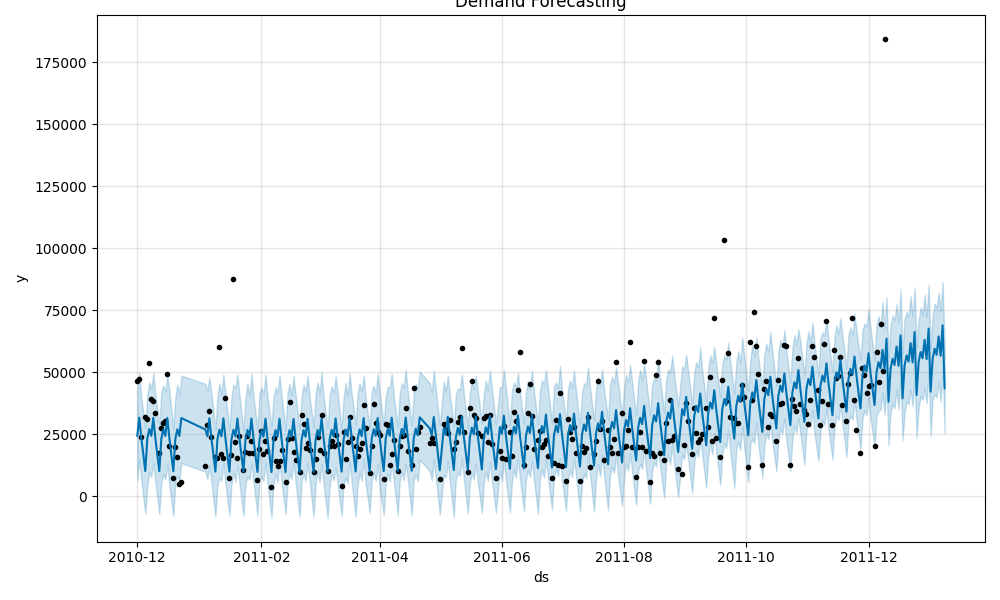
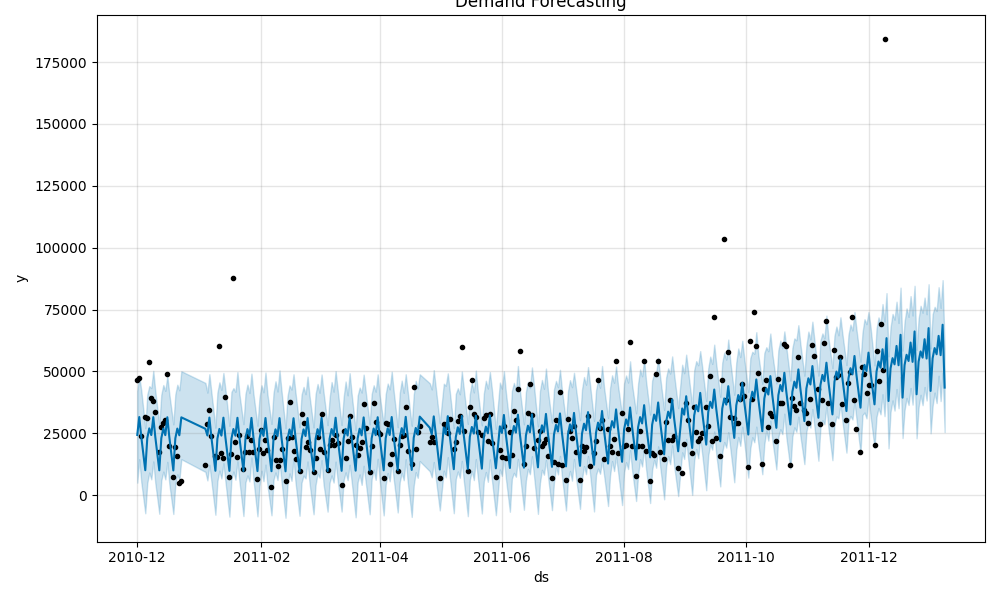
updates

diff --git a/deep_learning.py b/deep_learning.py
@@ -1,0 +1,72 @@
+import pandas as pd
+import numpy as np
+from scipy.sparse import csr_matrix
+from sklearn.decomposition import TruncatedSVD
+from sklearn.metrics.pairwise import cosine_similarity
+import matplotlib.pyplot as plt
+
+def deep_learning_analysis(df):
+    """
+    Build Customer-Product matrix, apply SVD for collaborative filtering,
+    identify co-bought products and personalized recommendations.
+    """
+    # Create customer-product matrix (pivot on Quantity)
+    customer_product = df.pivot_table(
+        index='CustomerID', 
+        columns='StockCode', 
+        values='Quantity', 
+        fill_value=0
+    )
+
+    # Sparse matrix for efficiency
+    customer_product_sparse = csr_matrix(customer_product.values)
+
+    # SVD for dimensionality reduction
+    svd = TruncatedSVD(n_components=50, random_state=42)
+    matrix_reduced = svd.fit_transform(customer_product_sparse)
+
+    # Reconstruct for recommendations
+    matrix_reconstructed = svd.inverse_transform(matrix_reduced)
+
+    # Personalized recommendations: for a sample customer (first one)
+    sample_customer = 0
+    customer_reconstructed = matrix_reconstructed[sample_customer]
+    recommendations = np.argsort(customer_reconstructed)[-10:]  # Top 10 recommended products
+    recommended_products = customer_product.columns[recommendations]
+
+    # Product bundles: frequently bought together
+    # Group by InvoiceNo to find items in same basket
+    basket = (df[df['Quantity'] > 0]
+              .groupby(['InvoiceNo', 'StockCode'])['Quantity']
+              .sum()
+              .unstack()
+              .fillna(0)
+              .astype(bool)
+              .stack()
+              .reset_index()
+              .rename(columns={'level_1': 'StockCode_1', 0: 'InBasket'}))
+
+    # Pairwise co-occurrences
+    pairs = df.groupby(['InvoiceNo', 'StockCode']).size().reset_index(name='Count')
+    co_bought = pd.merge(pairs, pairs, on='InvoiceNo', suffixes=('_x', '_y'))
+    co_bought = co_bought[co_bought['StockCode_x'] < co_bought['StockCode_y']]
+    co_bought_summary = co_bought.groupby(['StockCode_x', 'StockCode_y'])['InvoiceNo'].nunique().sort_values(ascending=False).head(10)
+
+    # Plot customer-product matrix heatmap (sample)
+    plt.figure(figsize=(10, 6))
+    sample_matrix = customer_product.iloc[:10, :10]  # Small sample for plot
+    plt.imshow(sample_matrix, cmap='Blues', aspect='auto')
+    plt.colorbar()
+    plt.title('Sample Customer-Product Matrix')
+    plt.xlabel('Products')
+    plt.ylabel('Customers')
+    plt.savefig('images/customer_product_matrix.png')
+    plt.close()
+
+    # Plot top co-bought pairs
+    co_bought_summary.plot(kind='bar')
+    plt.title('Top Co-bought Product Pairs')
+    plt.savefig('images/co_bought_pairs.png')
+    plt.close()
+
+    return customer_product, matrix_reduced, recommended_products, co_bought_summary

diff --git a/chatbot.py b/chatbot.py
@@ -1,0 +1,50 @@
+import random
+
+class SimpleChatbot:
+    def __init__(self):
+        self.responses = {
+            "hello": ["Hi there!", "Hello!", "Greetings!"],
+            "product": ["We have many products. What are you looking for?", "Tell me about a product."],
+            "recommend": ["Based on your history, I recommend...", "Popular items include..."],
+            "bye": ["Goodbye!", "See you later!"],
+            "default": ["I'm sorry, I didn't understand.", "Can you rephrase?"]
+        }
+
+    def get_response(self, user_input):
+        user_input = user_input.lower()
+        if "hello" in user_input or "hi" in user_input:
+            return random.choice(self.responses["hello"])
+        elif "product" in user_input:
+            return random.choice(self.responses["product"])
+        elif "recommend" in user_input:
+            return random.choice(self.responses["recommend"])
+        elif "bye" in user_input:
+            return random.choice(self.responses["bye"])
+        else:
+            return random.choice(self.responses["default"])
+
+def run_chatbot():
+    """
+    Run a simple text-based chatbot.
+    Note: Speech recognition not implemented, as it requires external tools.
+    """
+    bot = SimpleChatbot()
+    print("Chatbot: Hello! Ask me about products or recommendations. Type 'quit' to exit.")
+    while True:
+        user_input = input("You: ")
+        if user_input.lower() == 'quit':
+            print("Chatbot: Goodbye!")
+            break
+        response = bot.get_response(user_input)
+        print(f"Chatbot: {response}")
+
+# For non-interactive, just print a demo
+def chatbot_demo():
+    bot = SimpleChatbot()
+    demo_inputs = ["hello", "what products do you have?", "recommend something", "bye"]
+    for inp in demo_inputs:
+        resp = bot.get_response(inp)
+        print(f"Input: {inp} -> Response: {resp}")
+
+if __name__ == "__main__":
+    chatbot_demo()

diff --git a/nlp.py b/nlp.py
@@ -1,0 +1,53 @@
+import pandas as pd
+from sklearn.feature_extraction.text import CountVectorizer
+from sklearn.model_selection import train_test_split
+from sklearn.linear_model import LogisticRegression
+from sklearn.metrics import accuracy_score
+import matplotlib.pyplot as plt
+
+def nlp_analysis():
+    """
+    Simulate NLP: create dummy reviews, preprocess, train sentiment model.
+    """
+    # Dummy data since no reviews in dataset
+    reviews = [
+        "Great product, love it!",
+        "Bad quality, disappointed.",
+        "Excellent value for money.",
+        "Terrible, do not buy.",
+        "Amazing, highly recommend.",
+        "Poor service, awful.",
+        "Fantastic item.",
+        "Worst purchase ever.",
+        "Good, but could be better.",
+        "Neutral, nothing special."
+    ] * 100  # Multiply for more data
+
+    reviews = [r.lower() for r in reviews]  # Make lowercase for matching
+    sentiments = [1 if 'great' in r or 'excellent' in r or 'amazing' in r or 'fantastic' in r or 'good' in r else 0 for r in reviews]
+
+    # Preprocess: tokenize, clean (simple)
+    vectorizer = CountVectorizer(stop_words='english')
+    X = vectorizer.fit_transform(reviews)
+    y = sentiments
+
+    # Train/test
+    X_train, X_test, y_train, y_test = train_test_split(X, y, test_size=0.2, random_state=42)
+
+    # Model
+    model = LogisticRegression()
+    model.fit(X_train, y_train)
+
+    # Predict
+    y_pred = model.predict(X_test)
+    acc = accuracy_score(y_test, y_pred)
+
+    # Plot sentiment distribution
+    sentiment_counts = pd.Series(sentiments).value_counts()
+    sentiment_counts.plot(kind='bar')
+    plt.title('Sentiment Distribution (Dummy)')
+    plt.xticks([0,1], ['Negative', 'Positive'])
+    plt.savefig('images/sentiment_distribution.png')
+    plt.close()
+
+    return acc

diff --git a/main.py b/main.py
@@ -1,0 +1,54 @@
+from load_data import load_data
+from clean_data import clean_data
+from time_series import time_series_analysis
+from classification import customer_segmentation
+from deep_learning import deep_learning_analysis
+from nlp import nlp_analysis
+from chatbot import chatbot_demo
+from dashboard import create_dashboard
+
+def main():
+    """
+    Run all steps of the analysis.
+    """
+    print("Starting data loading...")
+    df = load_data()
+    print("Data loaded.")
+
+    print("Cleaning data...")
+    df = clean_data(df)
+    print("Data cleaned.")
+
+    print("Performing time series analysis...")
+    forecast = time_series_analysis(df)
+    print("Time series analysis completed.")
+    print("Forecast (next 5 days):", forecast[['ds', 'yhat']].tail(5).to_dict('records'))
+
+    print("Performing customer segmentation...")
+    rfm = customer_segmentation(df)
+    print("Customer segmentation completed.")
+    print("Customer segments:", rfm['Segment'].value_counts().to_dict())
+
+    print("Performing deep learning analysis...")
+    customer_product, matrix_reduced, recommended_products, co_bought_summary = deep_learning_analysis(df)
+    print("Deep learning analysis completed.")
+    print("Recommended products:", list(recommended_products))
+    print("Top co-bought pairs:", co_bought_summary.head().to_dict())
+
+    print("Performing NLP analysis...")
+    acc = nlp_analysis()
+    print("NLP analysis completed.")
+    print("NLP sentiment accuracy:", acc)
+
+    print("Running chatbot demo...")
+    chatbot_demo()
+    print("Chatbot demo completed.")
+
+    print("Creating dashboard...")
+    create_dashboard()
+    print("Dashboard created.")
+
+    print("All steps completed successfully!")
+
+if __name__ == "__main__":
+    main()

diff --git a/eda_script.py b/eda_script.py
@@ -1,0 +1,53 @@
+import pandas as pd
+import matplotlib.pyplot as plt
+
+# Load the dataset
+df = pd.read_csv('Dataset/online_retail.csv', encoding='latin1')
+
+# Basic info
+print("Dataset Shape:", df.shape)
+print("Columns:", list(df.columns))
+print("Data Types:")
+print(df.dtypes)
+print("\nMissing Values:")
+print(df.isnull().sum())
+
+# Data cleaning
+# Remove rows with missing CustomerID if needed, but for now keep
+# Convert InvoiceDate to datetime
+df['InvoiceDate'] = pd.to_datetime(df['InvoiceDate'])
+
+# Calculate Total
+df['Total'] = df['Quantity'] * df['UnitPrice']
+
+# Summary statistics
+print("\nSummary Statistics:")
+print(df.describe())
+
+# Top countries by sales
+top_countries = df.groupby('Country')['Total'].sum().sort_values(ascending=False).head(10)
+print("\nTop 10 Countries by Total Sales:")
+print(top_countries)
+
+# Top products by quantity sold
+top_products_qty = df.groupby('Description')['Quantity'].sum().sort_values(ascending=False).head(10)
+print("\nTop 10 Products by Quantity Sold:")
+print(top_products_qty)
+
+# Top products by total sales
+top_products_sales = df.groupby('Description')['Total'].sum().sort_values(ascending=False).head(10)
+print("\nTop 10 Products by Total Sales:")
+print(top_products_sales)
+
+# Sales over time (monthly)
+df['Month'] = df['InvoiceDate'].dt.to_period('M')
+monthly_sales = df.groupby('Month')['Total'].sum()
+print("\nMonthly Sales:")
+print(monthly_sales)
+
+# Save plots (optional, but since no display, just print)
+# plt.figure(figsize=(10,5))
+# monthly_sales.plot()
+# plt.title('Monthly Sales')
+# plt.savefig('monthly_sales.png')
+# print("Monthly sales plot saved as monthly_sales.png")

diff --git a/clean_data.py b/clean_data.py
@@ -1,0 +1,31 @@
+import pandas as pd
+
+def clean_data(df):
+    """
+    Clean the data as per the steps:
+    - Remove rows with missing CustomerID
+    - Remove transactions with Quantity <= 0
+    - Create TotalPrice = Quantity * UnitPrice
+    - Convert InvoiceDate to datetime
+    - Extract Year, Month, Day, Week, Hour
+    """
+    # Remove missing CustomerID
+    df = df.dropna(subset=['CustomerID'])
+
+    # Remove Quantity <= 0
+    df = df[df['Quantity'] > 0]
+
+    # Create TotalPrice
+    df['TotalPrice'] = df['Quantity'] * df['UnitPrice']
+
+    # Convert InvoiceDate
+    df['InvoiceDate'] = pd.to_datetime(df['InvoiceDate'])
+
+    # Extract features
+    df['Year'] = df['InvoiceDate'].dt.year
+    df['Month'] = df['InvoiceDate'].dt.month
+    df['Day'] = df['InvoiceDate'].dt.day
+    df['Week'] = df['InvoiceDate'].dt.isocalendar().week
+    df['Hour'] = df['InvoiceDate'].dt.hour
+
+    return df

diff --git a/time_series.py b/time_series.py
@@ -1,0 +1,28 @@
+import pandas as pd
+from prophet import Prophet
+import matplotlib.pyplot as plt
+
+def time_series_analysis(df):
+    """
+    Aggregate sales by date, train Prophet model, predict future demand.
+    """
+    # Aggregate by date (daily sum of TotalPrice)
+    df['Date'] = df['InvoiceDate'].dt.date
+    daily_sales = df.groupby('Date')['TotalPrice'].sum().reset_index()
+    daily_sales.columns = ['ds', 'y']  # Prophet format
+
+    # Train Prophet
+    model = Prophet()
+    model.fit(daily_sales)
+
+    # Predict future (e.g., next 30 days)
+    future = model.make_future_dataframe(periods=30)
+    forecast = model.predict(future)
+
+    # Plot
+    fig = model.plot(forecast)
+    plt.title('Demand Forecasting')
+    plt.savefig('images/demand_forecast.png')
+    plt.close()
+
+    return forecast

diff --git a/dashboard.py b/dashboard.py
@@ -96,5 +96,5 @@ def create_dashboard():
     print(f"7. Top Products for Placement: {top_prod_sales.head().index.tolist()}")
     print(f"8. NLP Sentiment Accuracy: {acc:.2f}")
 
-if _name_ == "_main_":
+if __name__ == "__main__":
     create_dashboard()

diff --git a/load_data.py b/load_data.py
@@ -1,0 +1,8 @@
+import pandas as pd
+
+def load_data():
+    """
+    Load the online_retail.csv dataset.
+    """
+    df = pd.read_csv('Dataset/online_retail.csv', encoding='latin1')
+    return df
